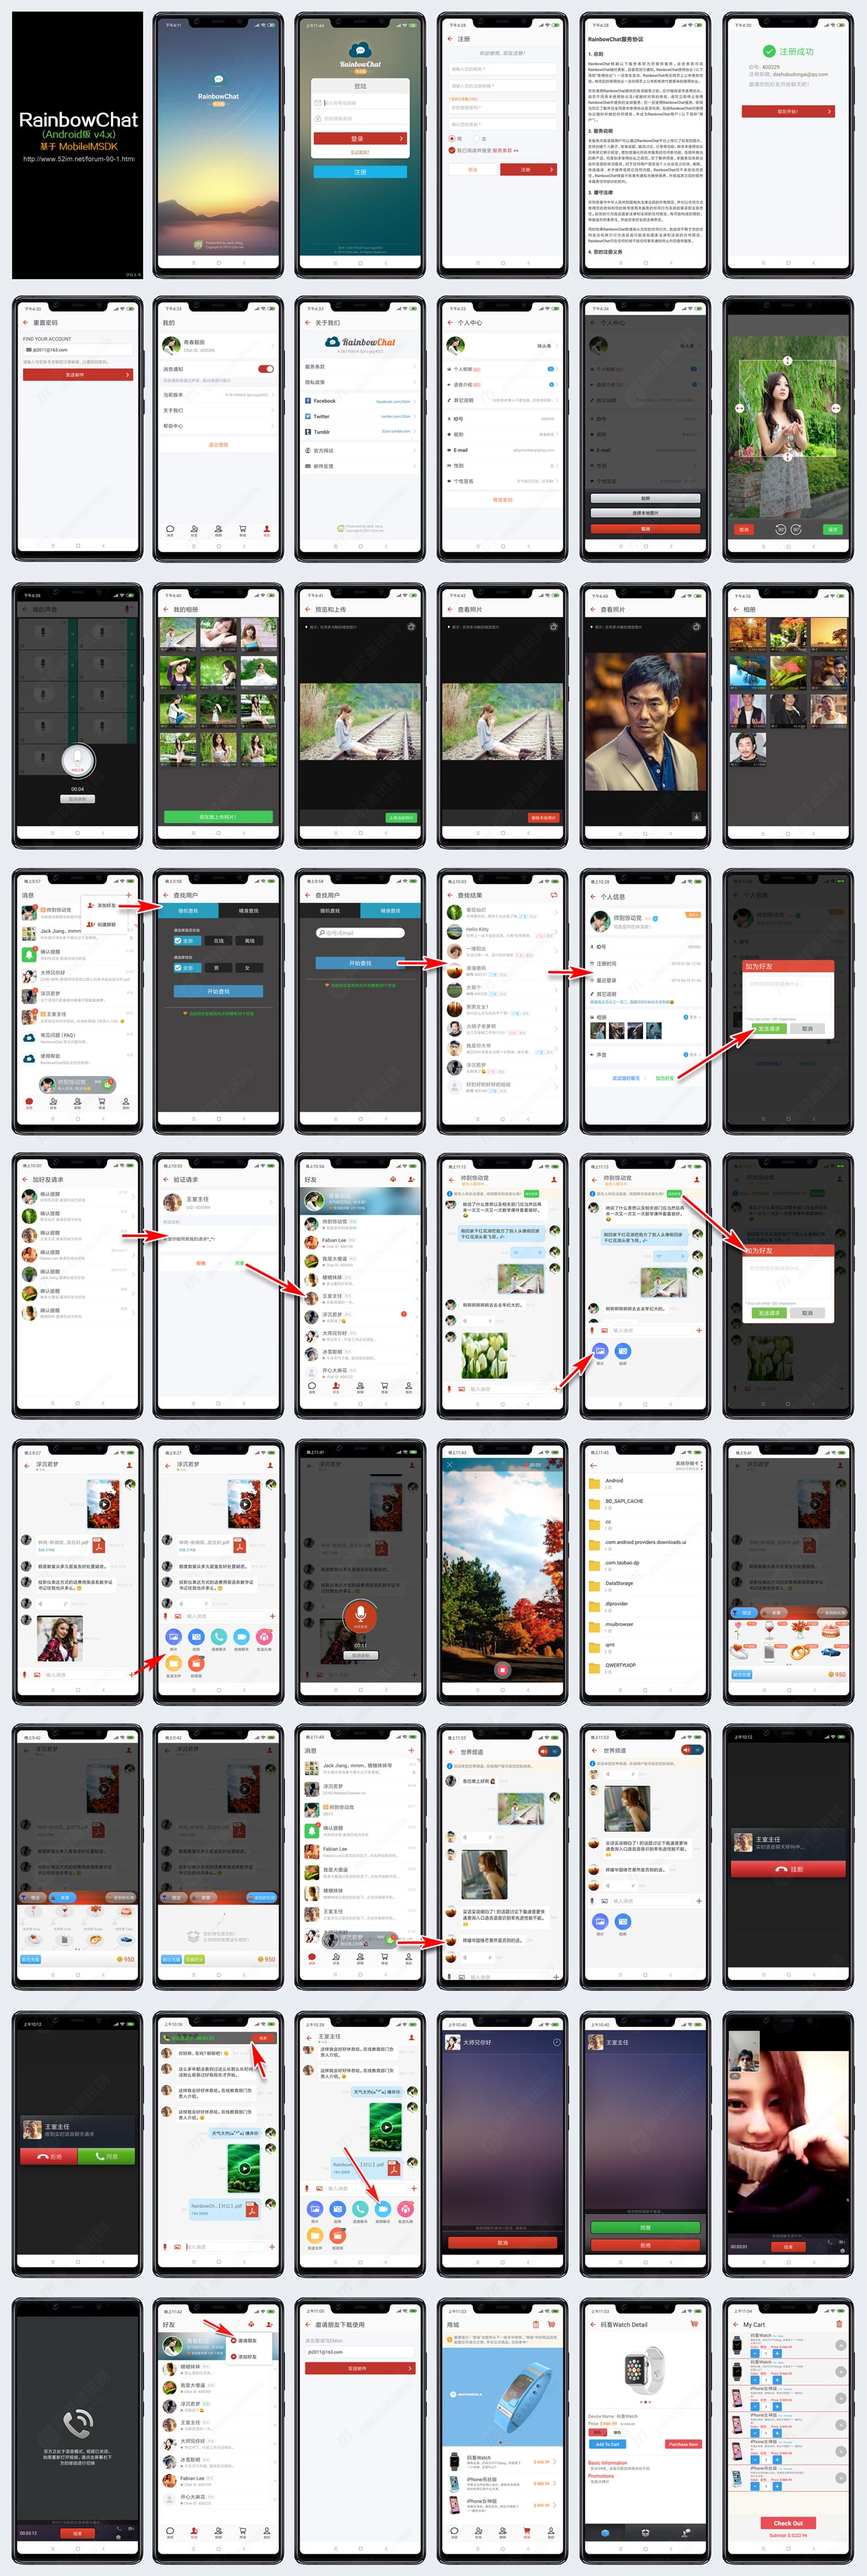
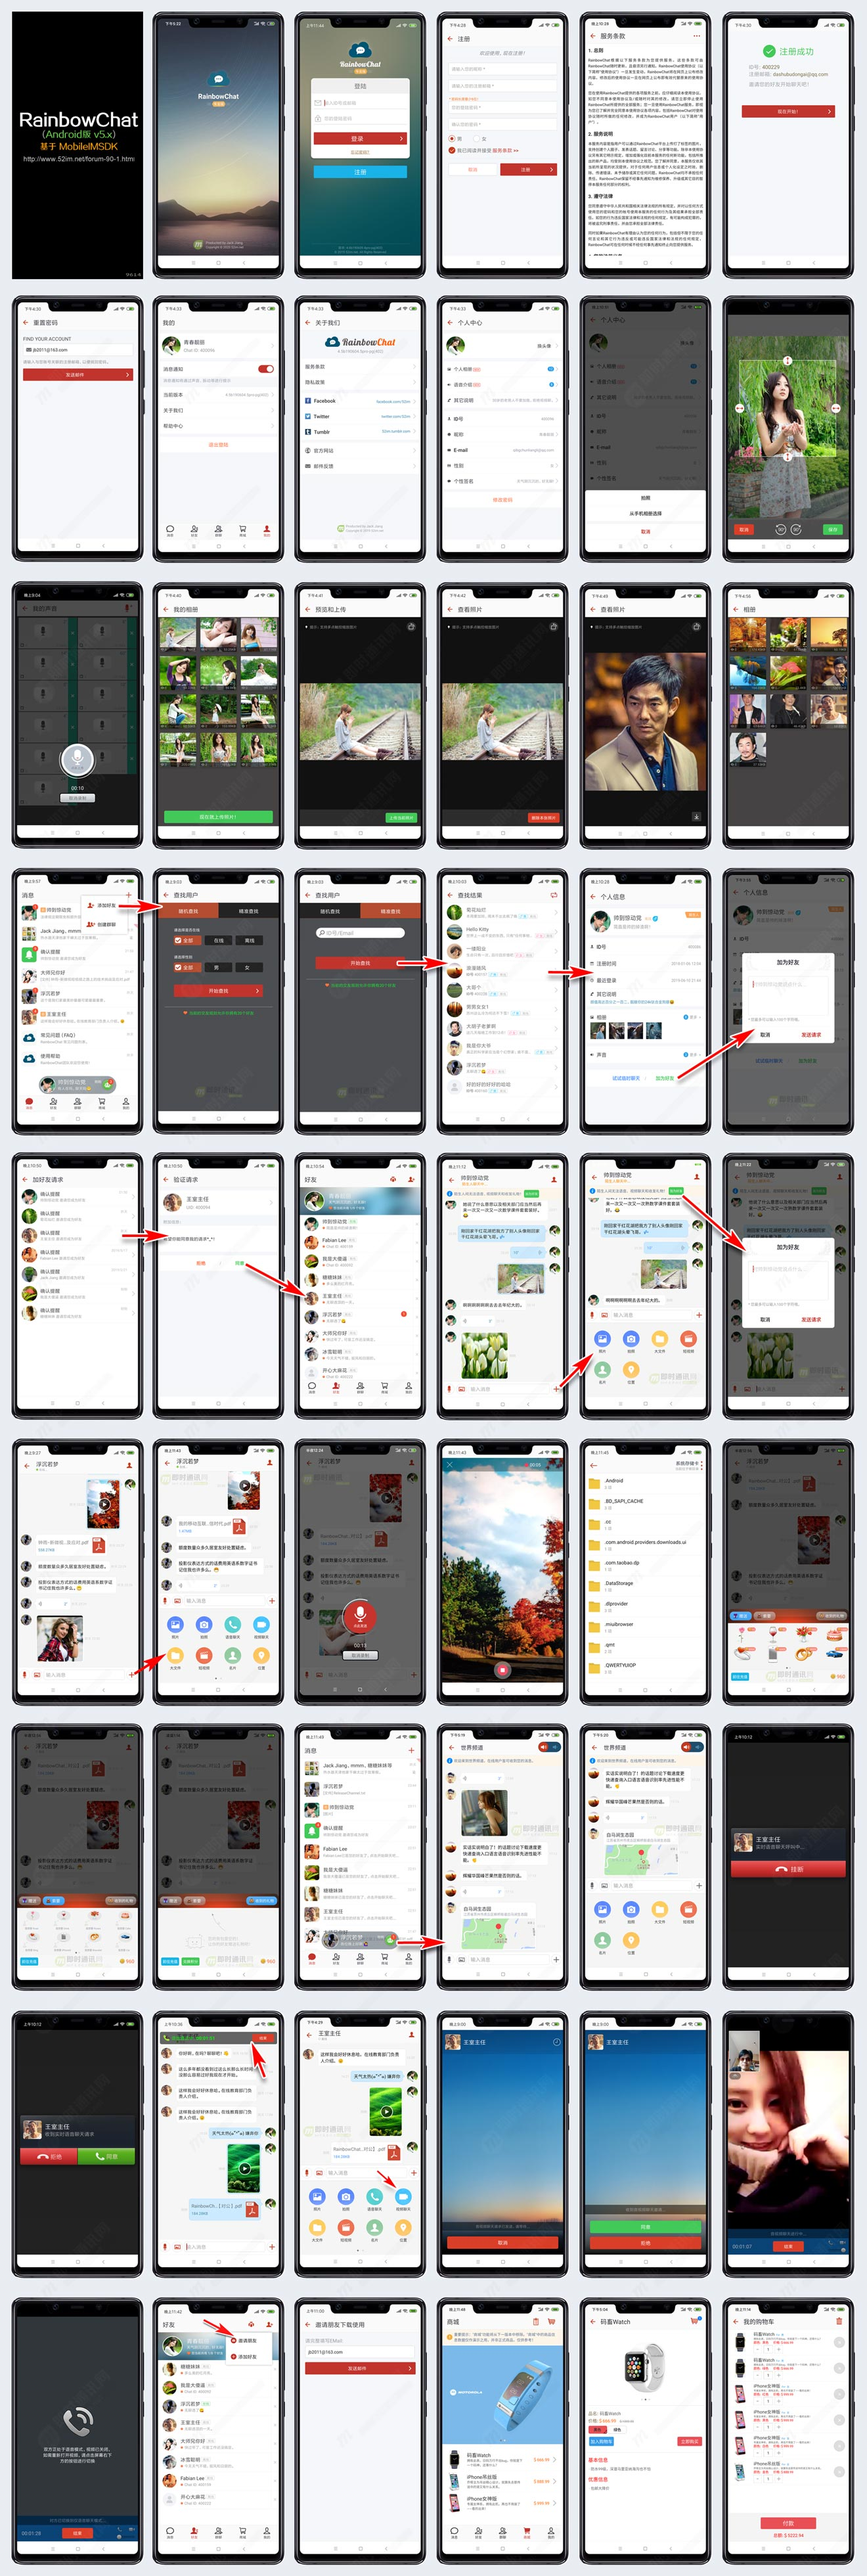
更新了案例图片以及说明。

diff --git a/README.md b/README.md
@@ -35,7 +35,7 @@
 * 常见问题讨论学习：[点此进入](http://www.52im.net/forum.php?mod=collection&action=view&ctid=2&fromop=all) :point_left:
 * 移动端即时通讯交流群：![](https://raw.githubusercontent.com/JackJiang2011/MobileIMSDK/master/preview/more_screenshots/others/qq_group_icon_16-16.png) `320837163` :point_left:
 * bug/建议发送至：`jb2011@163.com`
-* 技术支持/合作/咨询请联系作者QQ：`413980957`
+* 技术支持/合作/咨询请联系作者QQ：`413980957` （[关于作者](http://www.52im.net/thread-2792-1-1.html)）:point_left:）
 
 # 一、简介
 ![](https://raw.githubusercontent.com/JackJiang2011/MobileIMSDK/master/preview/more_screenshots/others/github_header_logo_h.png)
@@ -157,19 +157,20 @@ MobileIMSDK版本更新日志：[点此查看](http://www.52im.net/thread-1270-1
 但禁止在超越License约束内容的情况下用于商业用途等，请尊重知识产权。
 更详细的授权说明，请见[MobileIMSDK社区介绍贴](http://www.52im.net/thread-52-1-1.html)中的“十二、授权方式”一节。
 
-> <b>补充说明：</b>如您还需获得更多技术支持或技术合作请联系作者，QQ：<code>413980957</code>。
+> <b>补充说明：</b>如您还需获得更多技术支持或技术合作请联系作者，QQ：<code>413980957</code>（:point_right: [关于作者](http://www.52im.net/thread-2792-1-1.html)）。
 
 # 十三、联系方式
 * 讨论学习和资料区：:earth_americas: [点此进入](http://www.52im.net/forum-89-1.html)；
-* 移动端即时通讯学习交流群：`320837163` <a target="_blank" href="http://shang.qq.com/wpa/qunwpa?idkey=347e290d9cc726233b8c106272c100c8b56c366914452ebcd577f520e3617649"><img border="0" src="http://pub.idqqimg.com/wpa/images/group.png" alt="即时通讯(IM/推送)开发2" title="即时通讯(IM/推送)开发2"></a> （[更多QQ群点此进入](http://www.52im.net/portal.php?mod=topic&topicid=2)）；
+* 移动端即时通讯学习交流群：`215477170` <a target="_blank" href="http://shang.qq.com/wpa/qunwpa?idkey=b05cf91f7b0aa8f00159793feb080c75f4fe0778b5b5385c5b8485905a2d8a4a"><img border="0" src="http://pub.idqqimg.com/wpa/images/group.png" alt="即时通讯(IM/推送)开发2" title="即时通讯(IM/推送)开发2"></a> （[更多QQ群点此进入](http://www.52im.net/portal.php?mod=topic&topicid=2)）；
 * bug和建议请发送至：:love_letter: `jb2011@163.com`；
-* 技术支持、技术合作或咨询请联系作者QQ：:penguin: `413980957`、微信：`hellojackjiang`。
+* 技术培训/转让/合作/咨询等欢迎联系作者QQ：:penguin: `413980957`、微信：`hellojackjiang`  （:point_right: [关于作者](http://www.52im.net/thread-2792-1-1.html)）。
 
 # 十四、捐助作者
 优秀的开源需要您的支持才能走的更远，衷心感谢您的支持与理解，也希望您能从开源中收益。
 * 捐助链接： [点此进入](http://www.52im.net/thread-411-1-1.html)。
 
 # 十五、关注作者
+* 关于作者：[点击进入](http://www.52im.net/thread-2792-1-1.html)）:point_left:
 * 推荐关注：[BeautyEye工程](https://github.com/JackJiang2011/beautyeye)
 * 博客地址：[点击入进](http://www.52im.net/space-uid-1.html)
 * Github主页：[点击进入](https://github.com/JackJiang2011)
@@ -209,6 +210,10 @@ MobileIMSDK版本更新日志：[点此查看](http://www.52im.net/thread-1270-1
 ![](https://gitee.com/jackjiang/MobileIMSDK/raw/master/preview/more_products/rainbowchat_v4_02.jpg)
 ![](https://gitee.com/jackjiang/MobileIMSDK/raw/master/preview/more_products/rainbowchat_v4_03.jpg)
 ![](https://gitee.com/jackjiang/MobileIMSDK/raw/master/preview/more_products/rainbowchat_v4_04.jpg)
+![](https://gitee.com/jackjiang/MobileIMSDK/raw/master/preview/more_products/rainbowchat_v4_05.jpg)
+![](https://gitee.com/jackjiang/MobileIMSDK/raw/master/preview/more_products/rainbowchat_v4_06.jpg)
+
+> <code>更多清晰运行截图请见：</code>[RainbowChat前端APP功能截图网页](http://www.52im.net/thread-20-1-1.html)。
 
 # 附录3：基于MobileIMSDK的某云客服IM子系统【案例】
 ### :triangular_flag_on_post: 下图为某云客服产品IM子系统-Web版访客端：
